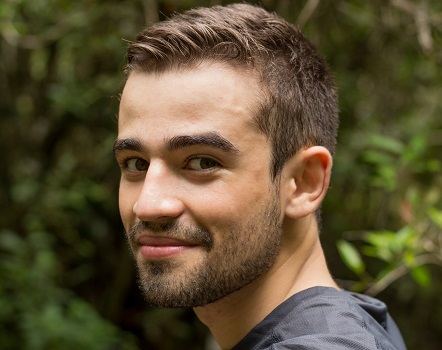
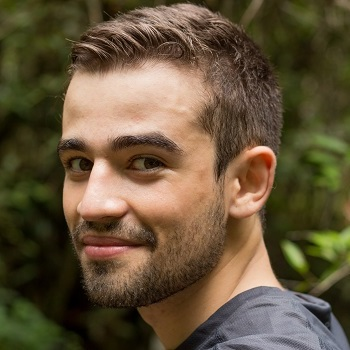
README

diff --git a/README.md b/README.md
@@ -1,6 +1,6 @@
 <h1 align="center">
   <br>
-  <a href="http://leoleao.ml"><img src="https://rawgit.com/leomleao/myself/dev/public/myself.jpg" alt="WAGO" width="200"></a>
+  <a href="http://leoleao.ml"><img style="border-radius: 50%;" src="https://rawgit.com/leomleao/myself/dev/public/myself.jpg" alt="WAGO" width="250"></a>
   <br>
       Resume page served as an APP
   <br>
@@ -16,10 +16,11 @@
 
 This project started as a weekend project when I started to get into HTML and WebDev in general. So much has change since then and now it's time for version 2.0
 
+<a href="https://www.buymeacoff.ee/yM2zt6U9F" target="_blank"><img src="https://www.buymeacoffee.com/assets/img/custom_images/purple_img.png" alt="Buy Me A Coffee" style="height: 41px !important;width: 174px !important;box-shadow: 0px 3px 2px 0px rgba(190, 190, 190, 0.5) !important;-webkit-box-shadow: 0px 3px 2px 0px rgba(190, 190, 190, 0.5) !important;" ></a>
+
 <p align="center"> 
   <a href="#key-features">Key Features</a> •
   <a href="#download">Download</a> •
-  <a href="#related">Related</a> •
   <a href="#license">License</a>
 </p>
 
@@ -42,10 +43,6 @@ You can [download](https://github.com/leomleao/myself).
 
 
 
-## Support
-
-<a href="https://www.buymeacoff.ee/yM2zt6U9F" target="_blank"><img src="https://www.buymeacoffee.com/assets/img/custom_images/purple_img.png" alt="Buy Me A Coffee" style="height: 41px !important;width: 174px !important;box-shadow: 0px 3px 2px 0px rgba(190, 190, 190, 0.5) !important;-webkit-box-shadow: 0px 3px 2px 0px rgba(190, 190, 190, 0.5) !important;" ></a>
-
 ## You may also like...
 
 Other stuff
@@ -53,6 +50,8 @@ Other stuff
 ## License
 
 MIT
+
+You might want to take a look on my resume [HERE](https://rawgit.com/leomleao/resume/master/ResumeEN.pdf) .
 
 ---
 
